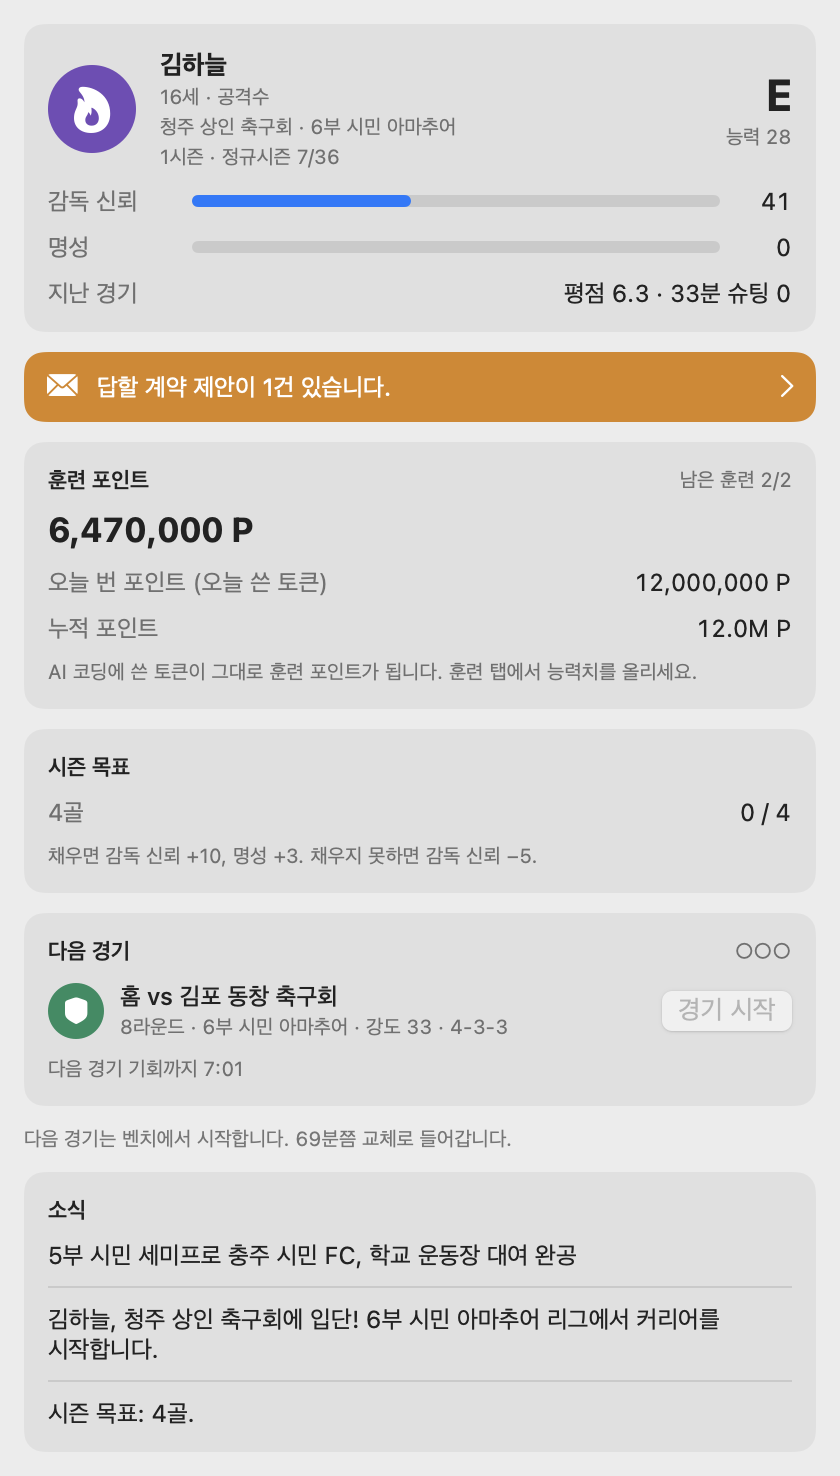
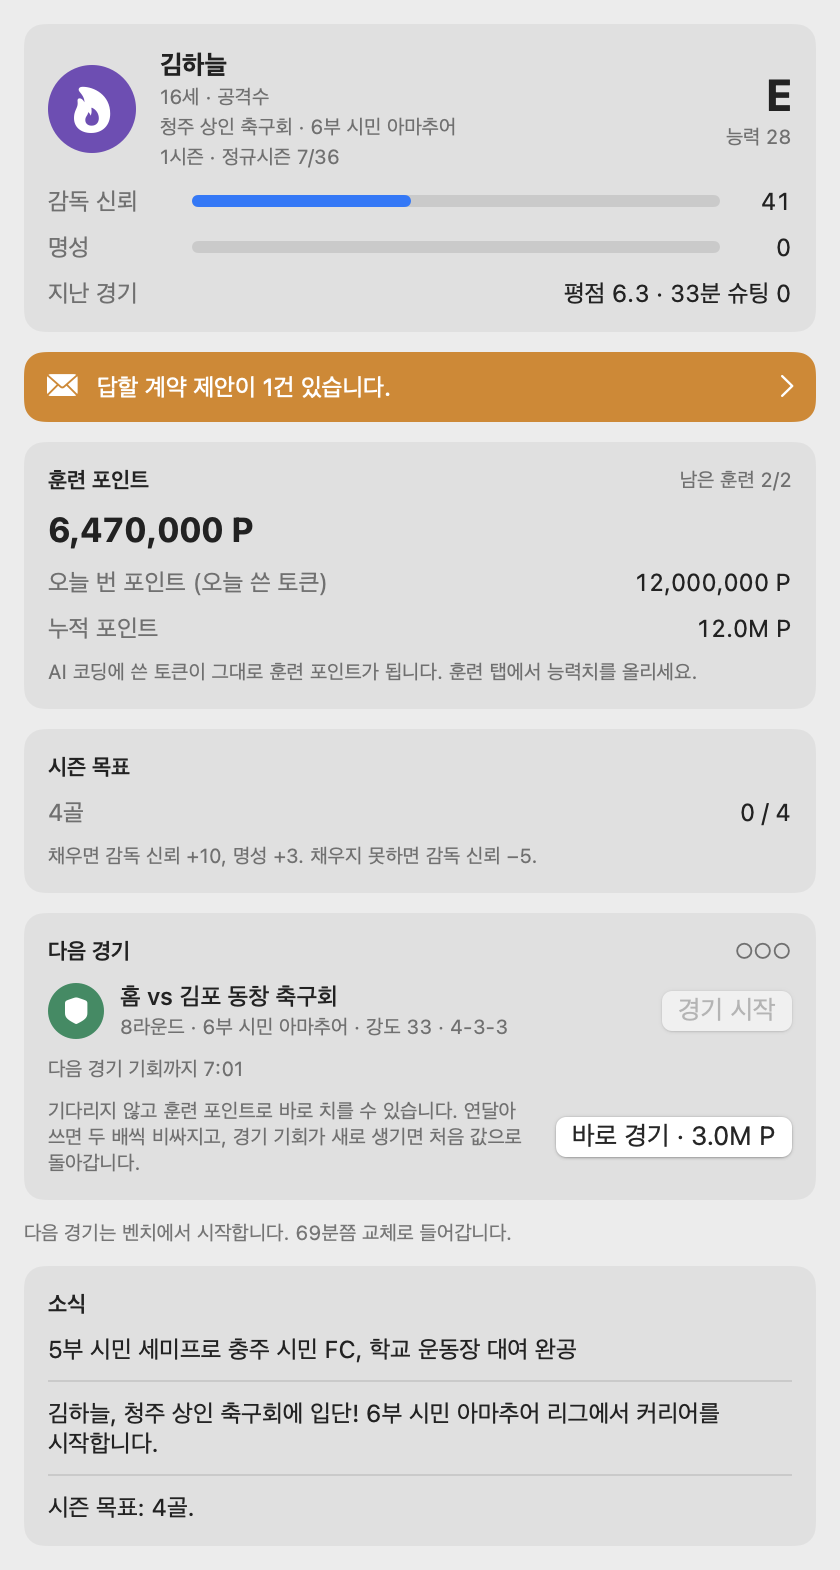
Match speed and buying the next match with tokens
Speed: 1x, 2x, 4x or 8x from a card at the top of the match tab, changeable
mid-match and remembered. It only shortens the waits; every pitch is still
simulated and the result does not depend on speed.

Extra match: when there is no match charge, one can be bought with club
funds (training points in player mode) and the match starts at once. It
costs 3M, doubles with each purchase in a row, and returns to the base price
when a charge accrues on its own.

diff --git a/Tests/TokenBaseballCoreTests/ExtraMatchTests.swift b/Tests/TokenBaseballCoreTests/ExtraMatchTests.swift
@@ -1,0 +1,66 @@
+import Foundation
+import Testing
+@testable import TokenBaseballCore
+
+@Suite struct ExtraMatchTests {
+    @Test func 경기_기회가_없을_때_토큰으로_하나_살_수_있다() throws {
+        var game = TestGame.make(seed: 95)
+        // 기회가 남아 있으면 살 수 없다.
+        #expect(game.charges == 1)
+        #expect(throws: GameError.self) { try game.buyExtraMatch(now: TestGame.start) }
+
+        try TestGame.playOne(&game, at: TestGame.start)
+        #expect(game.charges == 0)
+        // 자금이 모자라면 살 수 없다.
+        #expect(game.extraMatchBlockedReason != nil)
+        #expect(throws: GameError.self) { try game.buyExtraMatch(now: TestGame.start.addingTimeInterval(60)) }
+
+        TestGame.addTokens(&game, 50_000_000, id: "a", at: TestGame.start.addingTimeInterval(60))
+        let balance = game.funds.balance
+        #expect(game.extraMatchCost == Balance.extraMatchCost)
+        try game.buyExtraMatch(now: TestGame.start.addingTimeInterval(120))
+        #expect(game.charges == 1)
+        #expect(game.funds.balance == balance - Balance.extraMatchCost)
+        #expect(game.funds.seasonExpense[FundsLedger.Category.extraMatch.rawValue] == Balance.extraMatchCost)
+
+        // 산 기회로 바로 경기를 치른다.
+        try TestGame.playOne(&game, at: TestGame.start.addingTimeInterval(180))
+        #expect(game.round == 2)
+        // 연달아 사면 두 배.
+        #expect(game.extraMatchCost == Balance.extraMatchCost * 2)
+        try game.buyExtraMatch(now: TestGame.start.addingTimeInterval(240))
+        #expect(game.extraMatchCost == Balance.extraMatchCost * 4)
+    }
+
+    @Test func 경기_기회가_저절로_생기면_값이_처음으로_돌아간다() throws {
+        var game = TestGame.make(seed: 96)
+        try TestGame.playOne(&game, at: TestGame.start)
+        TestGame.addTokens(&game, 50_000_000, id: "a", at: TestGame.start.addingTimeInterval(60))
+        try game.buyExtraMatch(now: TestGame.start.addingTimeInterval(120))
+        try TestGame.playOne(&game, at: TestGame.start.addingTimeInterval(180))
+        #expect(game.extraMatchCost == Balance.extraMatchCost * 2)
+        game.refreshCharges(now: TestGame.hours(1.5))
+        #expect(game.charges == 1)
+        #expect(game.extraMatchCost == Balance.extraMatchCost)
+    }
+
+    @Test func 값에는_가격_난이도가_적용되고_끝없이_오르지_않는다() {
+        var game = TestGame.make(seed: 97)
+        game.settings.priceDifficulty = 0.5
+        #expect(game.extraMatchCost == Balance.extraMatchCost / 2)
+        game.settings.priceDifficulty = 1
+        game.extraMatchesBought = 50
+        #expect(game.extraMatchCost == Balance.extraMatchCost << Balance.extraMatchMaxDoublings)
+    }
+
+    @Test func 선수_모드에서는_훈련_포인트로_산다() throws {
+        var game = TestCareer.make(.shortstop, seed: 98)
+        try TestGame.playOne(&game, at: TestGame.start)
+        TestGame.addTokens(&game, 10_000_000, id: "a", at: TestGame.start.addingTimeInterval(60))
+        let points = game.funds.balance
+        try game.buyExtraMatch(now: TestGame.start.addingTimeInterval(120))
+        #expect(game.funds.balance == points - Balance.extraMatchCost)
+        try TestGame.playOne(&game, at: TestGame.start.addingTimeInterval(180))
+        #expect(game.myPlayer?.batting.games == 2)
+    }
+}

diff --git a/Sources/TokenBaseballCore/Game.swift b/Sources/TokenBaseballCore/Game.swift
@@ -69,6 +69,9 @@ public struct Game: Codable, Equatable, Sendable {
     var draftDone = false
     var expiryNoticeSent = false
 
+    /// 마지막으로 경기 기회가 저절로 생긴 뒤에 토큰으로 산 경기 수 (살수록 비싸진다). 예전 저장 파일에는 없다.
+    public internal(set) var extraMatchesBought: Int?
+
     // 선수 모드. 구단 모드와 예전 저장 파일에는 없다.
     public internal(set) var career: Career?
     /// 은퇴한 내 선수들의 기록실.
@@ -161,6 +164,8 @@ public struct Game: Codable, Equatable, Sendable {
         while charges < Balance.maxMatchCharges,
               now.timeIntervalSince(chargeAnchor) >= Balance.matchChargeInterval {
             charges += 1
+            // 기회가 저절로 생기면 추가 경기 값이 처음으로 돌아간다.
+            extraMatchesBought = nil
             chargeAnchor = chargeAnchor.addingTimeInterval(Balance.matchChargeInterval)
         }
         if charges >= Balance.maxMatchCharges { chargeAnchor = now }
@@ -171,6 +176,37 @@ public struct Game: Codable, Equatable, Sendable {
     public func timeToNextCharge(now: Date) -> TimeInterval? {
         guard charges < Balance.maxMatchCharges else { return nil }
         return max(0, Balance.matchChargeInterval - now.timeIntervalSince(chargeAnchor))
+    }
+
+    // MARK: 추가 경기
+
+    /// 지금 토큰(구단 자금 또는 훈련 포인트)으로 경기 기회를 하나 사는 값.
+    /// 연달아 살수록 두 배씩 비싸지고, 경기 기회가 저절로 하나 생기면 처음 값으로 돌아간다.
+    public var extraMatchCost: Int {
+        price(Balance.extraMatchCost << min(extraMatchesBought ?? 0, Balance.extraMatchMaxDoublings))
+    }
+
+    /// 지금 추가 경기를 살 수 없는 이유. 살 수 있으면 nil.
+    public var extraMatchBlockedReason: String? {
+        if isBankrupt { return "구단이 해체되었습니다." }
+        if isMatchLive { return "진행 중인 경기가 끝나야 합니다." }
+        if charges > 0 { return "경기 기회가 남아 있습니다." }
+        if nextMatch() == nil { return "지금은 치를 경기가 없습니다." }
+        if funds.balance < extraMatchCost {
+            return isCareer
+                ? "훈련 포인트가 모자랍니다. \(Format.tokens(extraMatchCost)) P가 필요합니다."
+                : "자금이 모자랍니다. \(Format.money(extraMatchCost))이 필요합니다."
+        }
+        return nil
+    }
+
+    /// 한 시간을 기다리지 않고 토큰으로 경기 기회를 하나 산다. 경기 기회가 없을 때만 살 수 있다.
+    public mutating func buyExtraMatch(now: Date) throws {
+        refreshCharges(now: now)
+        if let reason = extraMatchBlockedReason { throw GameError(reason) }
+        funds.spend(extraMatchCost, .extraMatch)
+        extraMatchesBought = (extraMatchesBought ?? 0) + 1
+        charges += 1
     }
 
     // MARK: 선수 만들기

diff --git a/Sources/TokenBaseball/Views/Components/NextMatchCard.swift b/Sources/TokenBaseball/Views/Components/NextMatchCard.swift
@@ -28,13 +28,29 @@ struct NextMatchCard: View {
                     .buttonStyle(.borderedProminent)
                     .disabled(game.charges == 0)
                 }
-                if game.charges == 0, let wait = game.timeToNextCharge(now: model.now) {
-                    Text("다음 경기 기회까지 \(Format.countdown(wait))").note()
+                if game.charges == 0 {
+                    if let wait = game.timeToNextCharge(now: model.now) {
+                        Text("다음 경기 기회까지 \(Format.countdown(wait))").note()
+                    }
+                    HStack {
+                        Text("기다리지 않고 \(game.isCareer ? "훈련 포인트" : "자금")로 바로 치를 수 있습니다. 연달아 쓰면 두 배씩 비싸지고, 경기 기회가 새로 생기면 처음 값으로 돌아갑니다.").note()
+                        Spacer()
+                        Button("바로 경기 · \(costText)") {
+                            model.buyExtraMatchAndStart()
+                            if model.game?.isMatchLive == true { goToMatch() }
+                        }
+                        .disabled(game.extraMatchBlockedReason != nil)
+                        .help(game.extraMatchBlockedReason ?? "경기 기회를 하나 사서 바로 시작합니다")
+                    }
                 }
             } else {
                 Text("지금은 치를 경기가 없습니다.").note()
             }
         }
+    }
+
+    private var costText: String {
+        game.isCareer ? "\(Format.tokens(game.extraMatchCost)) P" : Format.money(game.extraMatchCost)
     }
 
     private var chargeText: String {

diff --git a/Sources/TokenBaseball/SelfTest.swift b/Sources/TokenBaseball/SelfTest.swift
@@ -105,6 +105,28 @@ enum SelfTest {
         model.game?.runMatchToEnd()
         check("이어서 끝까지", model.game?.isMatchLive == false)
 
+        // 추가 경기: 기회가 없을 때 토큰으로 사서 바로 시작한다
+        // 같은 시각에 남은 기회를 다 써서 기회가 없는 상태를 만든다.
+        let fixed = Date().addingTimeInterval((hours + 4) * 3600)
+        var spent = 0
+        while (model.game?.charges ?? 0) > 0, spent < 5 {
+            model.perform { try $0.startMatch(now: fixed) }
+            model.game?.runMatchToEnd()
+            spent += 1
+        }
+        check("추가 경기: 기회가 없는 상태", model.game?.charges == 0)
+        _ = model.game?.collect(
+            [UsageRecord(id: "selftest-extra", timestamp: Date(), usage: TokenUsage(output: 30_000_000))], now: Date())
+        model.buyExtraMatchAndStart()
+        check("추가 경기: 사서 바로 시작", model.game?.isMatchLive == true, model.message ?? "")
+        model.game?.runMatchToEnd()
+        check("추가 경기: 값이 두 배", model.game?.extraMatchCost == Balance.extraMatchCost * 2)
+        // 배속은 고른 값이 남는다
+        let speedBefore = model.matchSpeed
+        model.matchSpeed = 4
+        check("배속: 저장", UserDefaults.standard.integer(forKey: "matchSpeed") == 4)
+        model.matchSpeed = speedBefore
+
         // 9. 새 버전 확인: GitHub 응답 읽기 (네트워크는 쓰지 않는다)
         let notifiedBefore = UpdateChecker.notifiedHead
         defer { UpdateChecker.notifiedHead = notifiedBefore }

diff --git a/Sources/TokenBaseball/AppModel+Match.swift b/Sources/TokenBaseball/AppModel+Match.swift
@@ -11,6 +11,13 @@ extension AppModel {
         if game?.isMatchLive == true { runMatchLoop() }
     }
 
+    /// 토큰으로 경기 기회를 하나 사서 곧바로 경기를 시작한다.
+    func buyExtraMatchAndStart() {
+        perform { try $0.buyExtraMatch(now: Date()) }
+        guard message == nil else { return }
+        startMatch()
+    }
+
     func acknowledgeResult() {
         guard game?.lastResult?.acknowledged == false else { return }
         game?.acknowledgeResult()
@@ -39,7 +46,8 @@ extension AppModel {
                 if events.contains(where: { $0.kind == .change }) { pause += .seconds(3) }
                 if events.contains(where: { $0.kind == .score }) { pause += .seconds(2) }
                 if self.game?.isMatchLive != true { break }
-                try? await Task.sleep(for: pause)
+                // 배속: 기다리는 시간만 줄인다. 경기 내용은 배속과 상관없이 같다.
+                try? await Task.sleep(for: pause / max(1, self.matchSpeed))
             }
             if let self, self.matchGeneration == generation { self.matchTask = nil }
         }

diff --git a/Sources/TokenBaseball/AppModel.swift b/Sources/TokenBaseball/AppModel.swift
@@ -43,8 +43,17 @@ final class AppModel: ObservableObject {
     @Published var updateStatus: String?
     @Published var checkingUpdate = false
 
-    /// 공 하나에 걸리는 시간. 배속과 건너뛰기는 없다.
+    /// 공 하나에 걸리는 시간 (1배속 기준).
     static let pitchInterval: Duration = .seconds(3)
+    /// 고를 수 있는 중계 배속.
+    static let matchSpeeds = [1, 2, 4, 8]
+    /// 중계 배속. 경기 도중에도 바꿀 수 있고, 다음 경기에도 이어진다.
+    @Published var matchSpeed: Int = {
+        let saved = UserDefaults.standard.integer(forKey: "matchSpeed")
+        return AppModel.matchSpeeds.contains(saved) ? saved : 1
+    }() {
+        didSet { UserDefaults.standard.set(matchSpeed, forKey: "matchSpeed") }
+    }
 
     init(store: SaveStore = AppModel.defaultStore(), sources: UsageSources = UsageSources()) {
         self.baseStore = store

diff --git a/Sources/TokenBaseball/Views/Match/MatchSpeedCard.swift b/Sources/TokenBaseball/Views/Match/MatchSpeedCard.swift
@@ -1,0 +1,20 @@
+import SwiftUI
+import TokenBaseballCore
+
+/// 중계 배속 고르기. 경기 도중에도 바꿀 수 있다.
+struct MatchSpeedCard: View {
+    @EnvironmentObject var model: AppModel
+
+    var body: some View {
+        Card {
+            HStack {
+                Text("배속").font(.callout).foregroundStyle(.secondary)
+                Picker("배속", selection: $model.matchSpeed) {
+                    ForEach(AppModel.matchSpeeds, id: \.self) { Text("\($0)×").tag($0) }
+                }
+                .pickerStyle(.segmented)
+                .labelsHidden()
+            }
+        }
+    }
+}

diff --git a/Sources/TokenBaseballCore/Balance.swift b/Sources/TokenBaseballCore/Balance.swift
@@ -432,6 +432,9 @@ public enum Balance {
 
     public static let matchChargeInterval: TimeInterval = 60 * 60
     public static let maxMatchCharges = 3
+    /// 토큰으로 경기 기회를 하나 사는 값. 연달아 사면 두 배씩 오른다 (최대 `extraMatchMaxDoublings`번).
+    public static let extraMatchCost = 3_000_000
+    public static let extraMatchMaxDoublings = 6
 
     // MARK: 영입
 

diff --git a/Sources/TokenBaseball/Views/Match/FootballLiveView.swift b/Sources/TokenBaseball/Views/Match/FootballLiveView.swift
@@ -1,7 +1,7 @@
 import SwiftUI
 import TokenBaseballCore
 
-/// 축구 실시간 중계 화면. 배속과 건너뛰기는 없다.
+/// 축구 실시간 중계 화면. 배속은 경기 탭의 배속 카드에서 고른다.
 struct FootballLiveView: View {
     let live: LiveFootballMatch
     /// 선수 모드: 내 선수 이름과 이 경기에서 지금까지의 평점.

diff --git a/Sources/TokenBaseball/Views/Match/LiveMatchView.swift b/Sources/TokenBaseball/Views/Match/LiveMatchView.swift
@@ -1,7 +1,7 @@
 import SwiftUI
 import TokenBaseballCore
 
-/// 실시간 중계 화면. 배속과 건너뛰기는 없다.
+/// 실시간 중계 화면. 배속은 경기 탭의 배속 카드에서 고른다.
 struct LiveMatchView: View {
     let live: LiveMatch
     /// 선수 모드: 내 선수 이름과 이 경기에서 지금까지의 평점.

diff --git a/Sources/TokenBaseball/Views/Match/MatchTab.swift b/Sources/TokenBaseball/Views/Match/MatchTab.swift
@@ -7,6 +7,7 @@ struct MatchTab: View {
 
     var body: some View {
         VStack(spacing: 10) {
+            if game.isMatchLive { MatchSpeedCard() }
             if let live = game.live {
                 LiveMatchView(
                     live: live, myName: game.myPlayer?.name, myPerformance: game.careerLivePerformance)

diff --git a/Sources/TokenBaseballCore/Club/FundsLedger.swift b/Sources/TokenBaseballCore/Club/FundsLedger.swift
@@ -42,6 +42,7 @@ public struct FundsLedger: Codable, Equatable, Sendable {
         case recruit = "선수 영입"
         case fee = "승강 신청비"
         case training = "훈련"
+        case extraMatch = "추가 경기"
     }
 
     private struct Counted: Codable, Equatable, Sendable {
